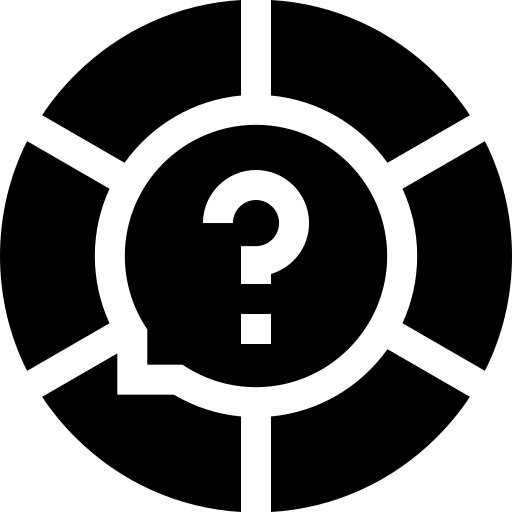
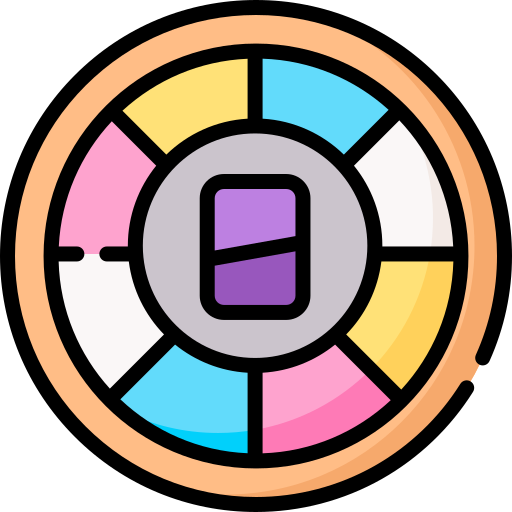
as pwa

diff --git a/web/index.html b/web/index.html
@@ -18,18 +18,24 @@
 
   <meta charset="UTF-8">
   <meta content="IE=Edge" http-equiv="X-UA-Compatible">
-  <meta name="description" content="A new Flutter project.">
+  <meta name="description" content="A question game for entertaining groups.">
 
   <!-- iOS meta tags & imgs -->
   <meta name="apple-mobile-web-app-capable" content="yes">
   <meta name="apple-mobile-web-app-status-bar-style" content="black">
-  <meta name="apple-mobile-web-app-title" content="question_game">
-  <link rel="apple-touch-icon" href="icons/Icon-192.png">
+  <meta name="apple-mobile-web-app-title" content="Question Game">
+  <link rel="apple-touch-icon" sizes="180x180" href="icons/apple-touch-icon.png">
+  <link rel="mask-icon" href="icons/safari-pinned-tab.svg" color="#5bbad5">
+
+  <!-- microsoft app -->
+  <meta name="msapplication-TileColor" content="#da532c">
 
   <!-- Favicon -->
-  <link rel="icon" type="image/png" href="favicon.png"/>
+  <link rel="icon" type="image/png" href="favicon.ico"/>
+  <link rel="icon" type="image/png" sizes="32x32" href="icons/favicon-32x32.png">
+  <link rel="icon" type="image/png" sizes="16x16" href="icons/favicon-16x16.png">
 
-  <title>question_game</title>
+  <title>Question Game</title>
   <link rel="manifest" href="manifest.json">
 
   <script>
@@ -39,6 +45,7 @@
   <!-- This script adds the flutter initialization JS code -->
   <script src="flutter.js" defer></script>
 </head>
+
 <body>
   <script>
     window.addEventListener('load', function(ev) {
@@ -54,6 +61,37 @@
         }
       });
     });
+  </script>
+  <!-- Capture PWA install prompt event -->
+  <script>
+    let deferredPrompt;
+
+    window.addEventListener('beforeinstallprompt', (e) => {
+      deferredPrompt = e;
+    });
+
+    function promptInstall(){
+       deferredPrompt.prompt();
+    }
+
+    // Listen for app install event
+    window.addEventListener('appinstalled', () => {
+      deferredPrompt = null;
+      appInstalled();
+    });
+
+    // Track how PWA was launched (either from browser or as PWA)
+    function getLaunchMode() {
+      const isStandalone = window.matchMedia('(display-mode: standalone)').matches;
+      if(deferredPrompt) hasPrompt();
+      if (document.referrer.startsWith('android-app://')) {
+        appLaunchedAsTWA();
+      } else if (navigator.standalone || isStandalone) {
+        appLaunchedAsPWA();
+      } else {
+        window.appLaunchedInBrowser();
+      }
+    }
   </script>
 </body>
 </html>

diff --git a/lib/ui/ui_defaults.dart b/lib/ui/ui_defaults.dart
@@ -2,6 +2,7 @@ import 'dart:math';
 
 import 'package:flutter/material.dart';
 import 'package:flutter_gen/gen_l10n/app_localizations.dart';
+import 'package:pwa_install/pwa_install.dart';
 
 Color createRandomPastelBackgroundColor() {
   return Color((Random().nextDouble() * 0xFFFFFF).toInt() << 0)
@@ -39,6 +40,15 @@ class DefaultScaffold extends StatelessWidget {
     this.backButton = true,
   });
 
+  // prompt installing as PWA if is enabled
+  void _promptInstallPWA() {
+    final installer = PWAInstall();
+    print(installer.installPromptEnabled);
+    if (installer.installPromptEnabled) {
+      installer.promptInstall_();
+    }
+  }
+
   @override
   Widget build(BuildContext context) {
     final loc = AppLocalizations.of(context);
@@ -64,7 +74,7 @@ class DefaultScaffold extends StatelessWidget {
                         height: defaultIconSize,
                       ),
                 onPressed: () =>
-                    backButton ? Navigator.of(context).pop() : null,
+                    backButton ? Navigator.of(context).pop() : _promptInstallPWA(),
               ),
             ),
           ),

diff --git a/lib/main.dart b/lib/main.dart
@@ -1,12 +1,20 @@
 import 'package:flutter/material.dart';
 import 'package:flutter_gen/gen_l10n/app_localizations.dart';
+import 'package:pwa_install/pwa_install.dart';
 import 'package:question_game/ui/routes/about.dart';
 import 'package:question_game/ui/routes/choose_categories.dart';
 import 'package:question_game/ui/routes/home_page.dart';
 import 'package:question_game/ui/ui_defaults.dart' as ui_defaults;
 
-void main() {
+Future<void> main() async {
+  // Ensure Flutter binding is initialized
+  WidgetsFlutterBinding.ensureInitialized();  // register pwa class
+  PWAInstall().setup(installCallback: () {
+    debugPrint('APP INSTALLED!');
+  });
+  // register licenses
   registerLicenses();
+  // start app
   runApp(const MyApp());
 }
 

diff --git a/lib/ui/routes/about.dart b/lib/ui/routes/about.dart
@@ -30,4 +30,5 @@ Future<void> _registerLicense(String name, String assetPath) async {
 Future<void> registerLicenses() async {
   _registerLicense('Alte Haas Grotesk (Font)', 'licenses/License_Alte_Haas_Grotesk.txt');
   _registerLicense('Louis George Cafe (Font)', 'licenses/License_Louis_George_Cafe.txt');
+  _registerLicense('Flaticon', 'licenses/flaticon.txt');
 }

diff --git a/README.md b/README.md
@@ -1,2 +1,2 @@
 # flutter_question_game
-Question entertainment game project for DAPI.
+A question game for entertaining groups programmed with [flutter](https://flutter.dev) for DAPI.
